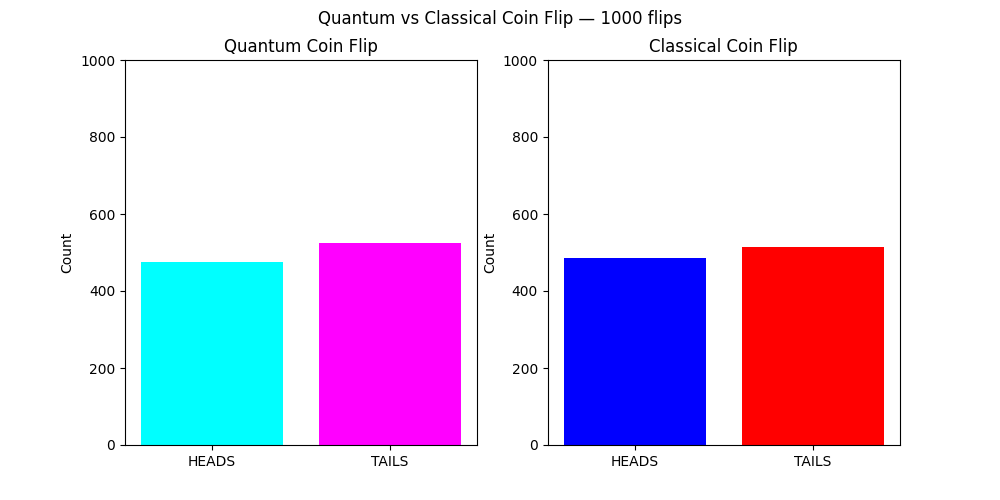
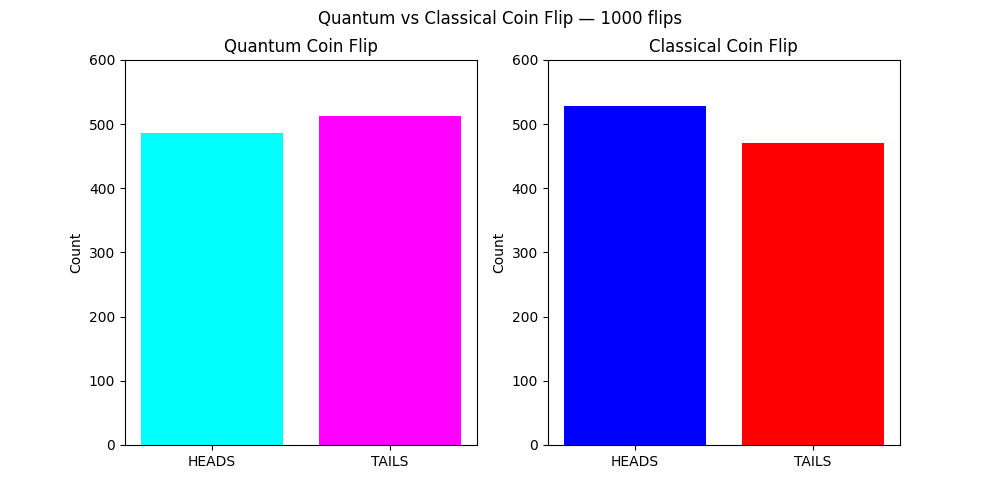
Fixed Plot Layout

diff --git a/main.py b/main.py
@@ -39,12 +39,12 @@ fig, (ax1, ax2) = plt.subplots(1, 2, figsize=(10, 5))
 ax1.bar(['HEADS', 'TAILS'], [q_heads, q_tails], color=['cyan', 'magenta'])
 ax1.set_title("Quantum Coin Flip")
 ax1.set_ylabel("Count")
-ax1.set_ylim(0, n)
+ax1.set_ylim(0, 600)
 
 ax2.bar(['HEADS', 'TAILS'], [c_heads, c_tails], color=['blue', 'red'])
 ax2.set_title("Classical Coin Flip")
 ax2.set_ylabel("Count")
-ax2.set_ylim(0, n)
+ax2.set_ylim(0, 600)
 
 plt.suptitle("Quantum vs Classical Coin Flip — 1000 flips")
 plt.savefig("comparison.png")
